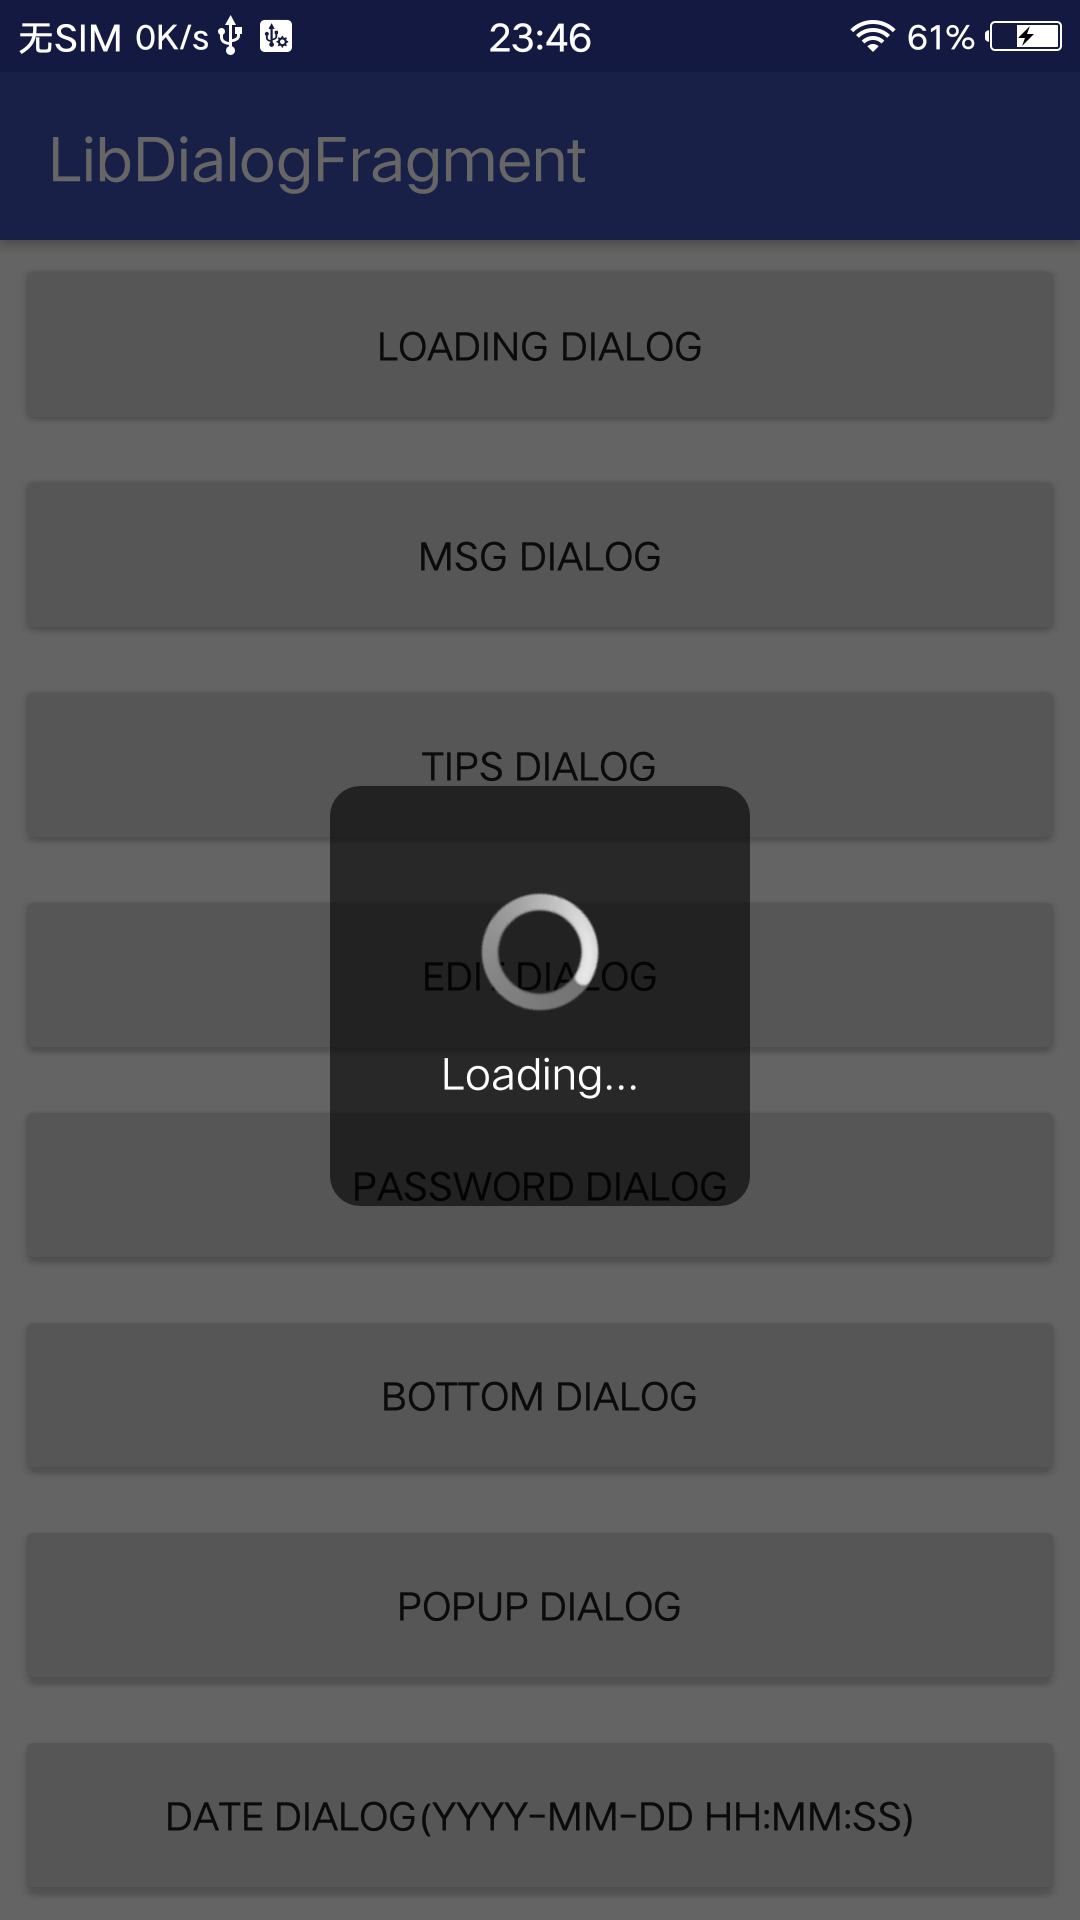
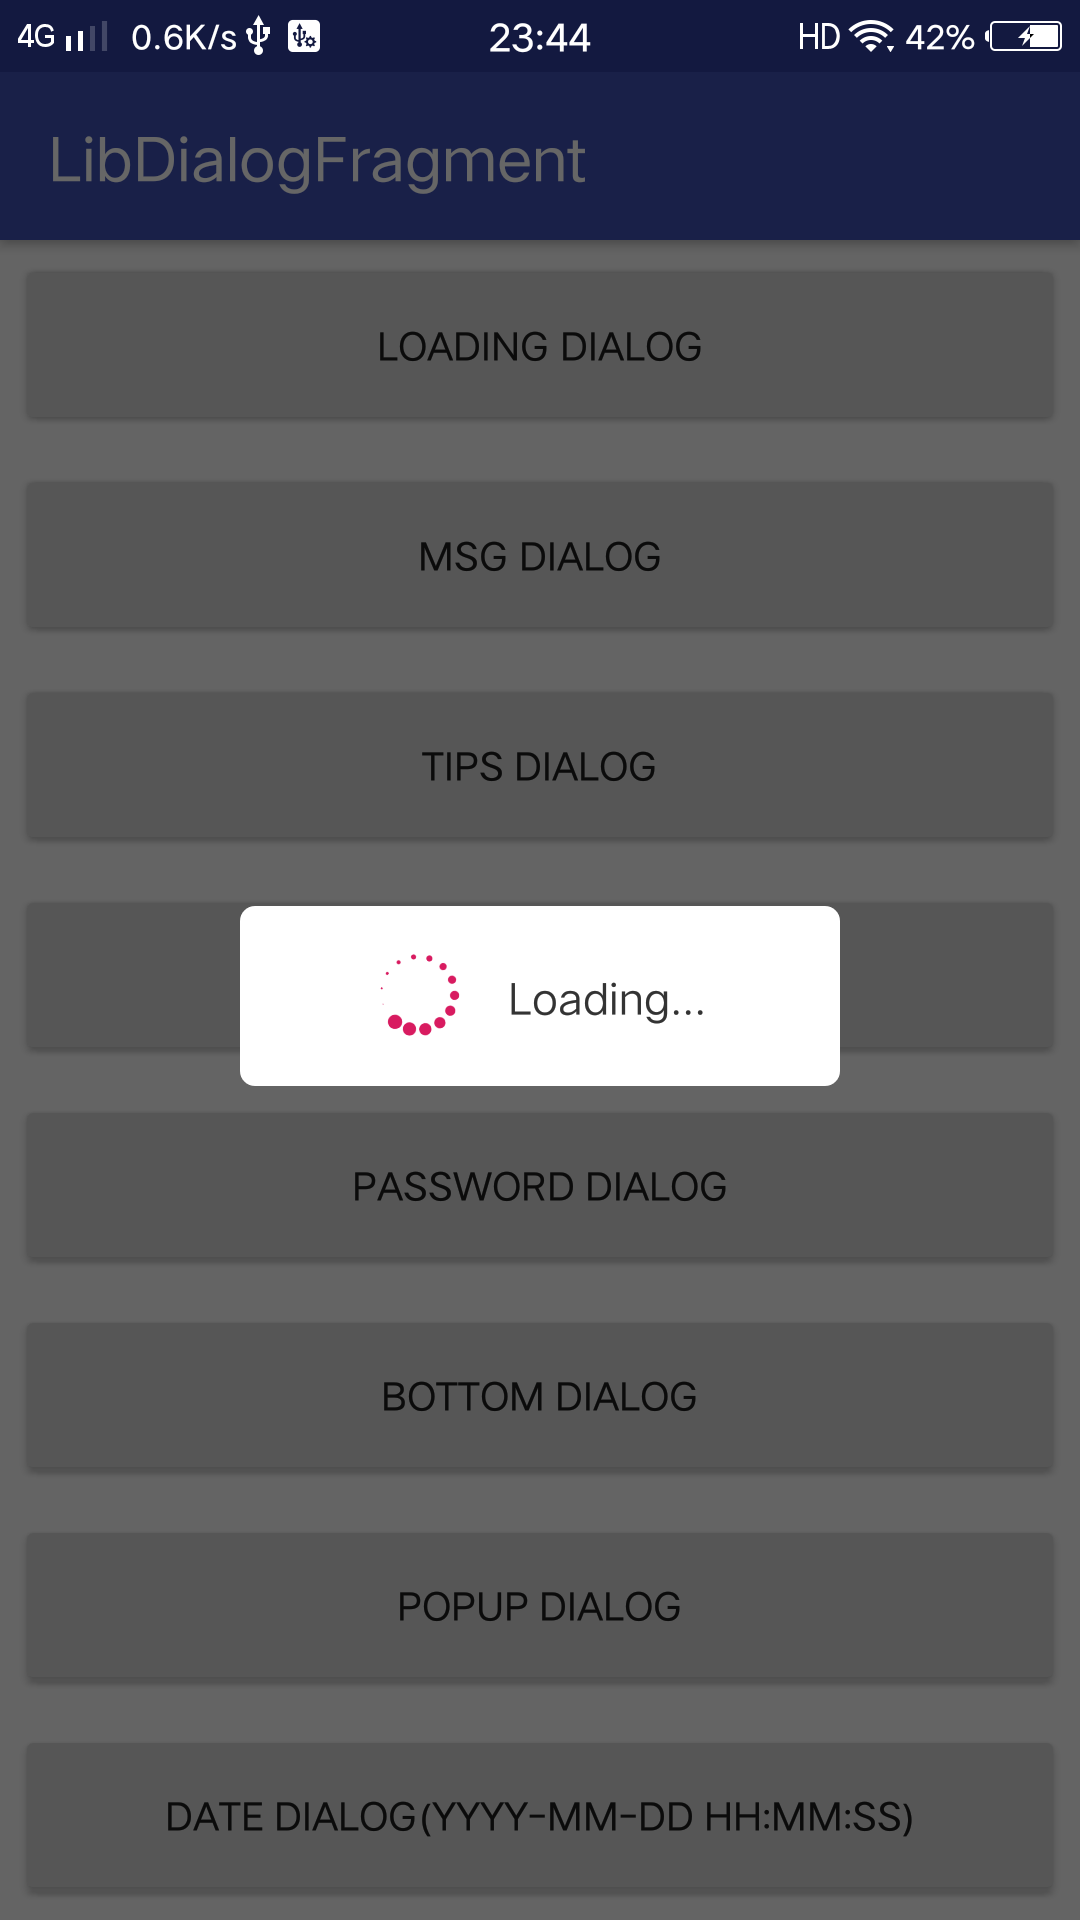
Mod

diff --git a/libDialogFragment/src/main/java/com/rhino/dialog/LoadingDialogFragment.java b/libDialogFragment/src/main/java/com/rhino/dialog/LoadingDialogFragment.java
@@ -1,5 +1,10 @@
 package com.rhino.dialog;
 
+import android.support.annotation.DrawableRes;
+import android.view.animation.Animation;
+import android.view.animation.LinearInterpolator;
+import android.view.animation.RotateAnimation;
+import android.widget.ImageView;
 import android.widget.TextView;
 
 import com.rhino.dialog.R;
@@ -17,11 +22,19 @@ public class LoadingDialogFragment extends BaseDialogFragment {
     /**
      * The TextView of loading.
      */
-    private TextView mLoadingDesc;
+    public TextView mLoadingDesc;
+    /**
+     * The ImageView of loading.
+     */
+    public ImageView mLoadingIcon;
     /**
      * The message of loading.
      */
     private String mLoadingText = "Loading...";
+    /**
+     * The icon of loading.
+     */
+    public int mLoadingIconResId = R.mipmap.ic_loading;
 
 
     @Override
@@ -37,7 +50,21 @@ public class LoadingDialogFragment extends BaseDialogFragment {
     @Override
     protected void initView() {
         mLoadingDesc = findSubViewById(R.id.tv);
+        mLoadingIcon = findSubViewById(R.id.iv);
         mLoadingDesc.setText(mLoadingText);
+        mLoadingIcon.setImageResource(mLoadingIconResId);
+    }
+
+    @Override
+    public void onStart() {
+        super.onStart();
+        startRotateAnim();
+    }
+
+    @Override
+    public void onStop() {
+        super.onStop();
+        stopRotateAnim();
     }
 
     /**
@@ -54,5 +81,37 @@ public class LoadingDialogFragment extends BaseDialogFragment {
         return this;
     }
 
+    /**
+     * Set the icon of loading.
+     *
+     * @param resId the icon of loading
+     * @return this
+     */
+    public LoadingDialogFragment setLoadingIconResId(@DrawableRes int resId) {
+        this.mLoadingIconResId = resId;
+        if (null != mLoadingIcon) {
+            mLoadingIcon.setImageResource(mLoadingIconResId);
+        }
+        return this;
+    }
+
+    /**
+     * Start rotate anim.
+     */
+    public void startRotateAnim() {
+        Animation anim = new RotateAnimation(0f, 360f, Animation.RELATIVE_TO_SELF, 0.5f, Animation.RELATIVE_TO_SELF, 0.5f);
+        anim.setDuration(1000);
+        anim.setInterpolator(new LinearInterpolator());
+        anim.setRepeatMode(Animation.RESTART);
+        anim.setRepeatCount(-1);
+        mLoadingIcon.startAnimation(anim);
+    }
+
+    /**
+     * Stop rotate anim.
+     */
+    public void stopRotateAnim() {
+        mLoadingIcon.clearAnimation();
+    }
 
 }

diff --git a/libDialogFragment/src/main/java/com/rhino/dialog/base/BaseSimpleDialogFragment.java b/libDialogFragment/src/main/java/com/rhino/dialog/base/BaseSimpleDialogFragment.java
@@ -80,6 +80,10 @@ public abstract class BaseSimpleDialogFragment extends BaseDialogFragment {
      */
     protected Drawable mBackgroundDrawable;
     /**
+     * The drawable of title background.
+     */
+    protected Drawable mTitleBackgroundDrawable;
+    /**
      * The visibility state of tile.
      */
     protected int mTitleVisibility = View.VISIBLE;
@@ -232,6 +236,10 @@ public abstract class BaseSimpleDialogFragment extends BaseDialogFragment {
             mLlDialog.setBackgroundDrawable(mBackgroundDrawable);
         }
 
+        if (null != mTitleBackgroundDrawable) {
+            mTvTitle.setBackgroundDrawable(mTitleBackgroundDrawable);
+        }
+
         mTvTitle.setVisibility(mTitleVisibility);
         mTvTitle.setText(mTitleText);
         mTvTitle.setTextSize(mTitleTextSize);
@@ -324,6 +332,19 @@ public abstract class BaseSimpleDialogFragment extends BaseDialogFragment {
         this.mBackgroundDrawable = drawable;
         if (null != mLlDialog) {
             mLlDialog.setBackgroundDrawable(drawable);
+        }
+        return this;
+    }
+
+    /**
+     * Set the drawable of title background.
+     *
+     * @param drawable drawable
+     */
+    public BaseSimpleDialogFragment setTitleBackground(Drawable drawable) {
+        this.mTitleBackgroundDrawable = drawable;
+        if (null != mTvTitle) {
+            mTvTitle.setBackgroundDrawable(drawable);
         }
         return this;
     }

diff --git a/app/src/main/java/com/rhino/dapp/MainActivity.java b/app/src/main/java/com/rhino/dapp/MainActivity.java
@@ -18,9 +18,12 @@ import com.rhino.dialog.pwd.PwdInputDialogFragment;
 import com.rhino.dialog.impl.IOnDialogKeyClickListener;
 import com.rhino.dialog.impl.DefaultDialogListener;
 
+import java.text.SimpleDateFormat;
 import java.util.ArrayList;
 import java.util.Arrays;
+import java.util.Date;
 import java.util.List;
+import java.util.Locale;
 
 
 public class MainActivity extends AppCompatActivity {
@@ -157,7 +160,8 @@ public class MainActivity extends AppCompatActivity {
                 @Override
                 public void onClick(DatePickerDialogFragment dialogFragment) {
                     dialogFragment.dismiss();
-                    showToast(Arrays.toString(dialogFragment.getDate()));
+                    SimpleDateFormat sdf = new SimpleDateFormat("yyyy年MM月dd日 HH时mm分ss秒", Locale.getDefault());
+                    showToast(sdf.format(dialogFragment.getCalendar().getTime()));
                 }
             });
             dialogFragment.show(this);

diff --git a/libDialogFragment/src/main/java/com/rhino/dialog/picker/DatePickerDialogFragment.java b/libDialogFragment/src/main/java/com/rhino/dialog/picker/DatePickerDialogFragment.java
@@ -322,4 +322,17 @@ public class DatePickerDialogFragment extends BaseSimpleDialogFragment {
                 mWvHour.getValue(), mWvMinute.getValue(), mWvSecond.getValue()};
     }
 
+    @NonNull
+    public Calendar getCalendar() {
+        Calendar calendar = Calendar.getInstance();
+        calendar.set(Integer.parseInt(yearArr[mWvYear.getValue()-1]),
+                mWvMonth.getValue(),
+                mWvDay.getValue(),
+                mWvHour.getValue(),
+                mWvMinute.getValue(),
+                mWvSecond.getValue()
+        );
+        return calendar;
+    }
+
 }
